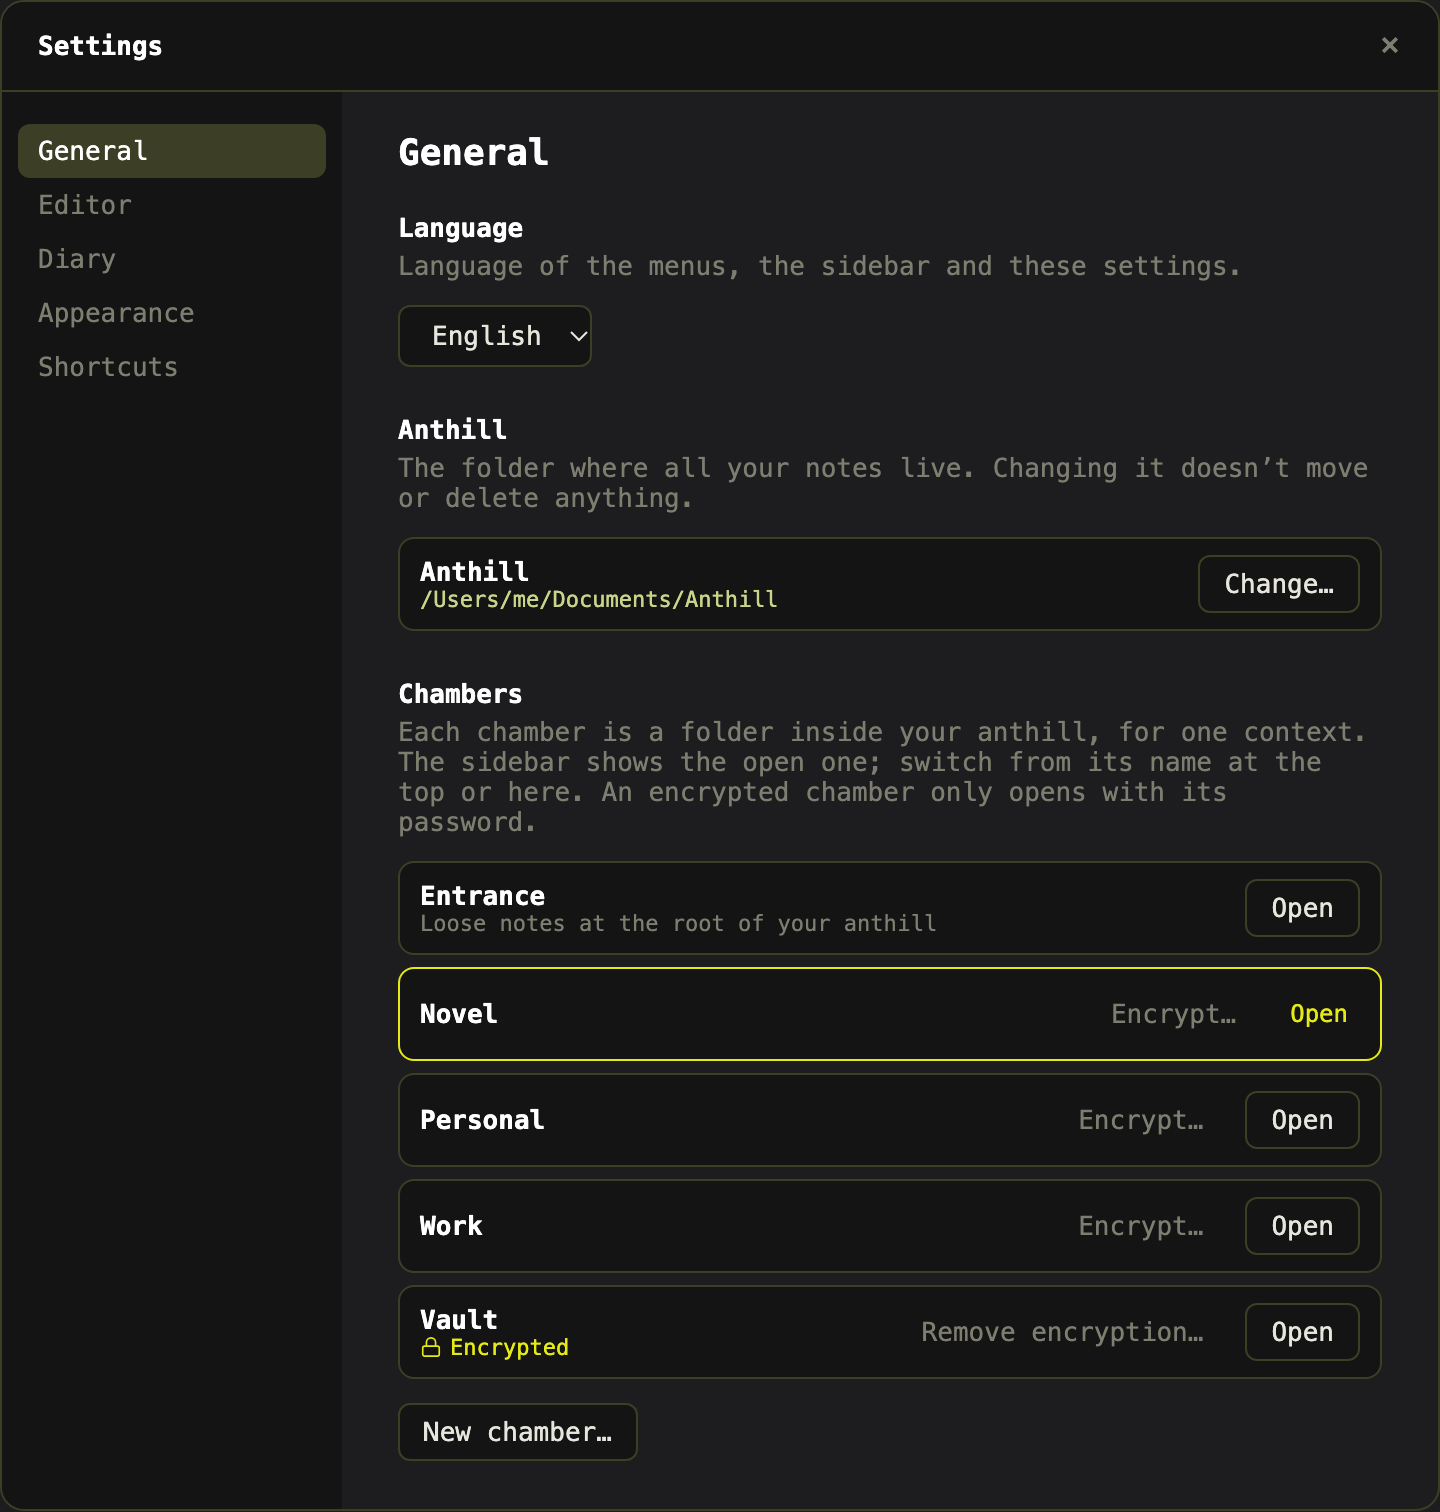
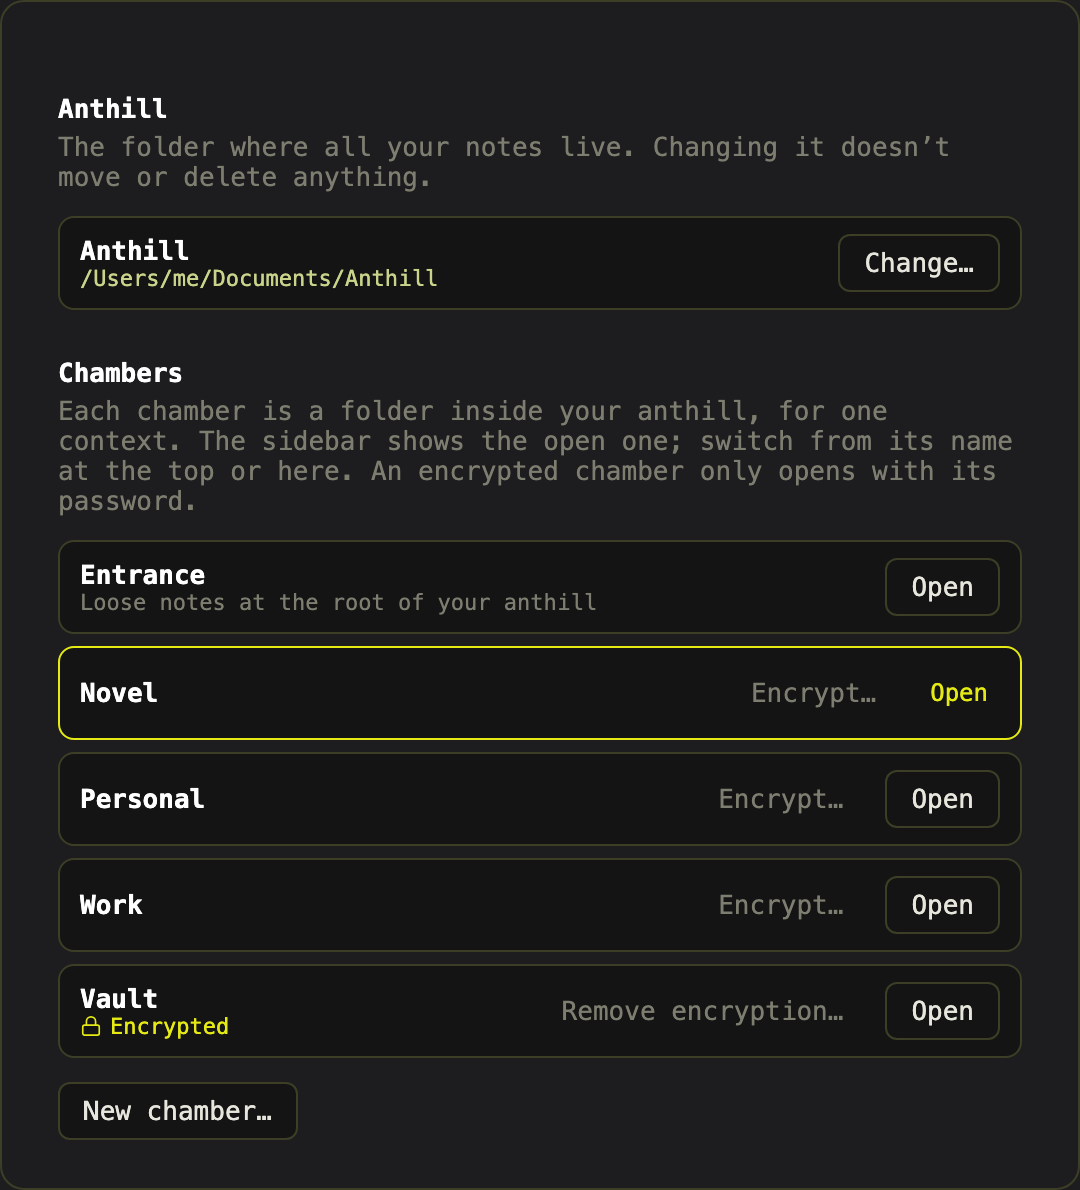
Sitio: captura recortada al hormiguero y las cámaras, y más chica
?captura en prueba/barra.html ahora esconde la cabecera, las áreas, el
título y el idioma de los Ajustes.

diff --git a/prueba/barra.tsx b/prueba/barra.tsx
@@ -8,7 +8,7 @@
 // «Entrada», `?diario` el calendario del modo diario, `?sinnota` la invitación a crear una nota
 // (sin ninguna abierta), `?bloqueada` la cámara cifrada y bloqueada, `?cifrar` la ventanita para
 // cifrar una cámara y `?captura` (con `?ajustes`) deja solo los Ajustes, arriba a la izquierda y a
-// todo su alto, para sacar la captura del sitio.
+// todo su alto y solo con el hormiguero y las cámaras de General, para sacar la captura del sitio.
 
 import ReactDOM from "react-dom/client";
 import "../src/App.css";
@@ -145,8 +145,9 @@ if (parametrosDeLaDireccion.has("camaras")) {
   setTimeout(() => document.querySelector<HTMLElement>(".selector-de-camara")?.click(), 100);
 }
 
-// Para la captura de los Ajustes del sitio: sin la ventana de atrás ni el fondo oscuro, y con el
-// panel a todo su alto (sin scroll), así se ven todas las cámaras.
+// Para la captura de los Ajustes del sitio: sin la ventana de atrás ni el fondo oscuro, sin la
+// cabecera, las áreas, el título ni el idioma (solo el hormiguero y las cámaras), y con el panel a
+// todo su alto (sin scroll), así se ven todas las cámaras.
 if (parametrosDeLaDireccion.has("captura")) {
   document.head.insertAdjacentHTML(
     "beforeend",
@@ -155,8 +156,9 @@ if (parametrosDeLaDireccion.has("captura")) {
       body > #root > main { display: none; }
       .modal-fondo { position: static; padding: 0; background: none; display: block; }
       .modal { box-shadow: none; }
-      .ajustes { width: 720px; height: auto; max-height: none; }
-      .ajustes-panel { overflow: visible; }
+      .ajustes { width: 540px; height: auto; max-height: none; }
+      .ajustes-cabecera, .ajustes-areas, .ajustes-panel > h1, .ajustes-panel > .ajuste:first-of-type { display: none; }
+      .ajustes-panel { overflow: visible; padding-top: 22px; }
     </style>`,
   );
 }

diff --git a/website/src/styles/global.css b/website/src/styles/global.css
@@ -178,7 +178,7 @@ p { margin: 0 0 12px; }
 .bloque { width: min(340px, 78vw); flex: none; }
 .bloque.ancho { width: min(460px, 82vw); }
 /* Captura de la app (los Ajustes con las cámaras): cabe en la cámara sin pasarse de alto. */
-.captura { flex: none; width: auto; height: auto; max-width: min(540px, 82vw); max-height: calc(100dvh - var(--alto-superficie) - var(--alto-recorrido) - 14vh); border-radius: 12px; box-shadow: 0 18px 50px rgba(0, 0, 0, 0.45); }
+.captura { flex: none; width: auto; height: auto; max-width: min(400px, 82vw); max-height: calc(100dvh - var(--alto-superficie) - var(--alto-recorrido) - 14vh); border-radius: 12px; box-shadow: 0 18px 50px rgba(0, 0, 0, 0.45); }
 /* En pantallas muy bajas un bloque puede tener su propio scroll vertical (la rueda lo respeta). */
 .desborda { max-height: calc(100dvh - var(--alto-superficie) - var(--alto-recorrido) - 14vh); overflow-y: auto; scrollbar-width: thin; }
 

diff --git a/AGENTS.md b/AGENTS.md
@@ -355,10 +355,10 @@ Left está hecho con Electron 7 y pesa ~150 MB; esta app debe ser bastante más 
   - Los bordes de las cámaras y del túnel son imperfectos, como cavados: los dibuja
     `lib/cavar.ts` en SVG (con semilla fija por cámara); sin JavaScript quedan los bordes
     redondeados del CSS.
-  - La cámara «El hormiguero» de la portada muestra una captura de Ajustes → General
+  - La cámara «El hormiguero» de la portada muestra una captura del hormiguero y las cámaras de Ajustes → General
     (`src/assets/ajustes-camaras-en.png` y `-es.png`, a 2x). Si cambian esos Ajustes, volver a
     sacarla con Chrome sin ventana: `--headless=new --force-device-scale-factor=2
-    --window-size=720,756 --default-background-color=00000000 --screenshot=…` sobre
+    --window-size=540,595 --default-background-color=00000000 --screenshot=…` sobre
     `http://localhost:1420/prueba/barra.html?ajustes&captura` (y `&es`), con `pnpm dev` corriendo.
   - La tierra de fondo es `src/assets/tierra.svg`: granos y piedritas al azar (semilla fija) que
     genera `website/scripts/tierra.mjs`; para cambiarla, editar el script y correrlo con node.
